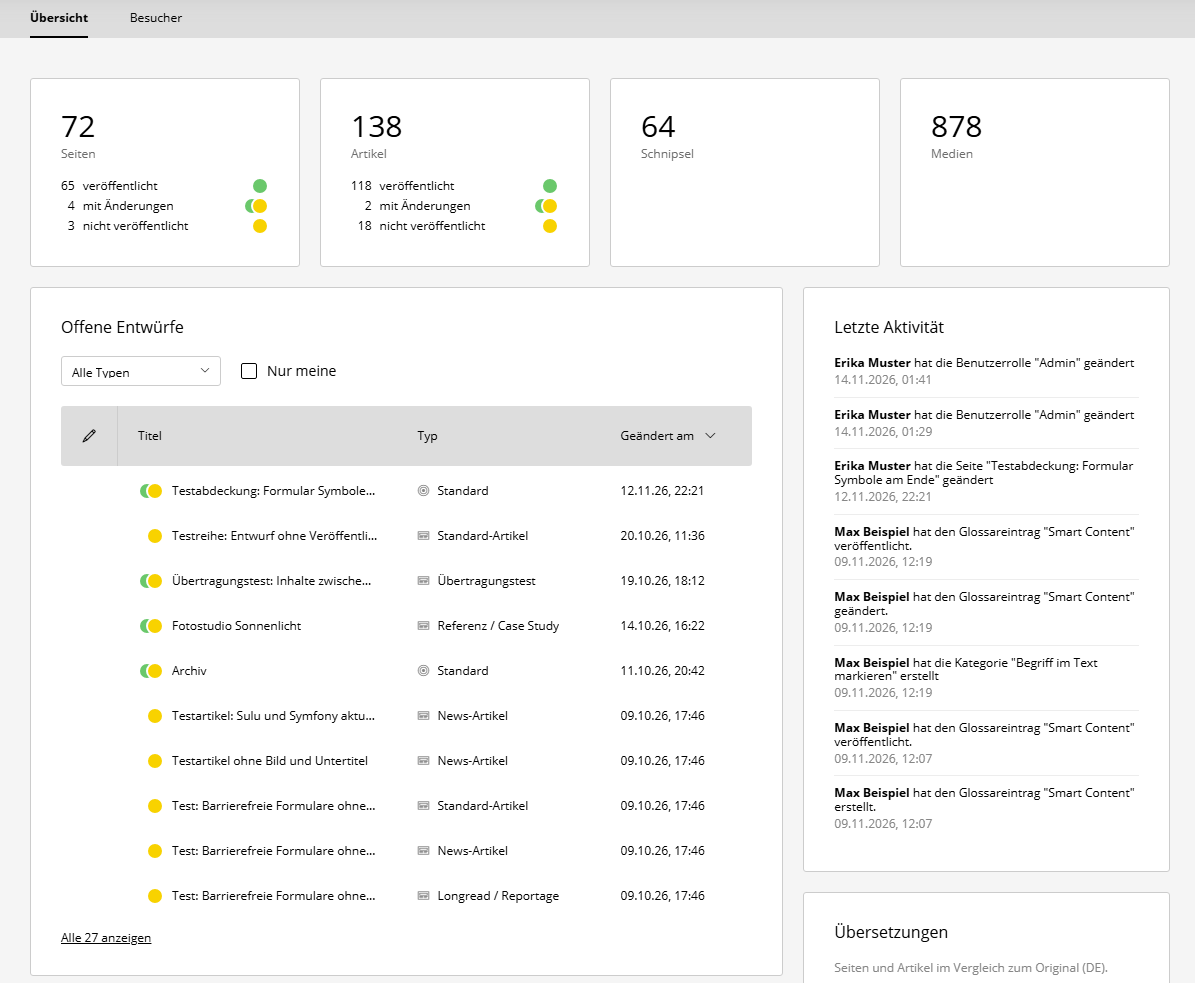
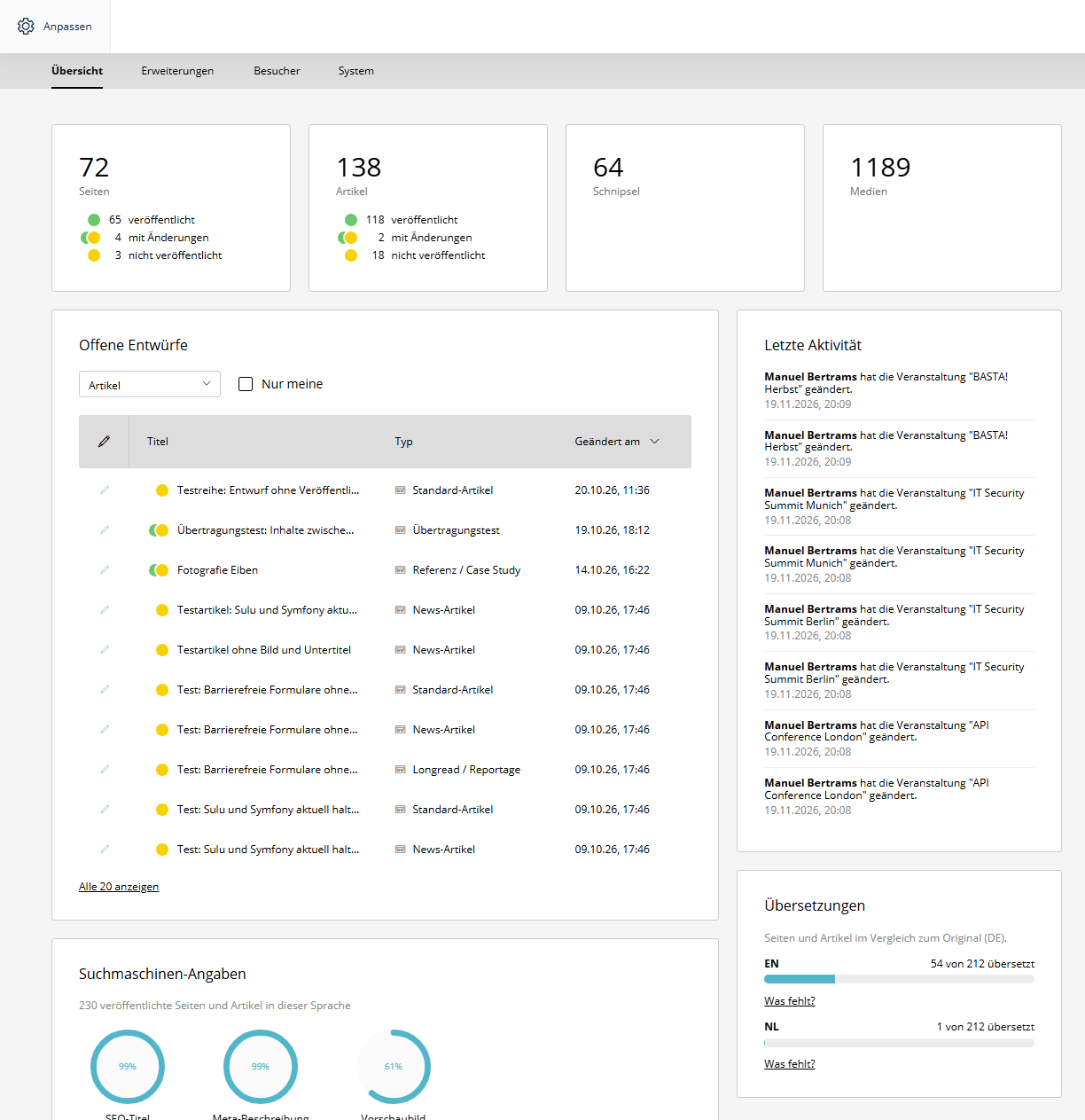
docs: screenshots of overview, extensions and system, changelog 1.5.0, branch alias 1.5.x-dev

diff --git a/docs/tabs.de.md b/docs/tabs.de.md
@@ -87,6 +87,8 @@ Wer `/` öffnet, landet auf „Übersicht“. Sulus Suche bleibt auf `/search`. 
 
 Kacheln, die andere Bundles oder das Projekt mitbringen (Bewertungen, Glossar, DeepL-Kontingent, Veranstaltungen ...), stehen nicht auf der Übersicht, sondern im Tab **Erweiterungen**. Er ist ein Tab aus Kacheln (Gruppe `extensions`, eigene Anordnung unter `sulu_dashboard.layout.extensions`, Modus „Anpassen“), hat die Sprachauswahl (die Kacheln nutzen die Sprache) und keinen Zeitraum. **Keine Erweiterungen, kein Tab:** Er erscheint nur, wenn der Benutzer mindestens eine solche Kachel sehen darf. Er steht hinter „Übersicht“ und vor „Besucher“ und „System“.
 
+![Der Tab Erweiterungen](img/dashboard-extensions.de.png)
+
 Welche Kachel dorthin kommt, entscheidet das Dashboard selbst, die anderen Bundles bleiben unverändert:
 
 - Hat die Kachel eine eigene Gruppe (`GroupedDashboardWidgetInterface`), behält sie sie.

diff --git a/docs/tabs.en.md b/docs/tabs.en.md
@@ -87,6 +87,8 @@ Opening `/` redirects to "Overview". The search of Sulu stays on `/search`. Exis
 
 Tiles that other bundles or the project bring (ratings, glossary, DeepL quota, events ...) are not on the overview but in the tab **Extensions**. It is a tab of tiles (group `extensions`, own arrangement under `sulu_dashboard.layout.extensions`, "Customize" mode), has the language select (the tiles use the language) and no period. **No extensions, no tab:** it appears only if the user may see at least one such tile. It stands after "Overview" and before "Visitors" and "System".
 
+![The tab Extensions (the admin interface is shown in German)](img/dashboard-extensions.de.png)
+
 The dashboard decides by itself which tile goes there, the other bundles stay unchanged:
 
 - A tile with its own group (`GroupedDashboardWidgetInterface`) keeps it.

diff --git a/CHANGELOG.md b/CHANGELOG.md
@@ -1,6 +1,6 @@
 # Changelog
 
-## Unreleased
+## 1.5.0 - 2026-11-19
 
 ### Added
 
